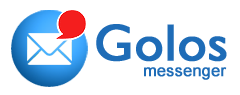
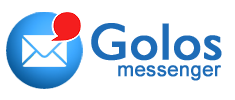
minor fix

Changed region(s): [[0.0, 0.1053, 0.9532, 0.9263]]

diff --git a/app/components/modules/TopRightMenu.jsx b/app/components/modules/TopRightMenu.jsx
@@ -149,8 +149,8 @@ function TopRightMenu({account, savings_withdraws, price_per_golos, globalprops,
             {link: feedLink, icon: 'new/home', value: tt('g.feed'), addon: <NotifiCounter fields="feed" />},
             {link: accountLink, icon: 'new/blogging', value: tt('g.blog')},
             {link: repliesLink, icon: 'new/answer', value: tt('g.replies'), addon: <NotifiCounter fields="comment_reply" />},
-            {link: donatesLink, icon: 'editor/coin', value: tt('g.rewards'), addon: <NotifiCounter fields="donate" />},
             {link: messagesLink, icon: 'new/envelope', value: tt('g.messages'), target: '_blank', addon: <NotifiCounter fields="message" />},
+            {link: donatesLink, icon: 'editor/coin', value: tt('g.rewards'), addon: <NotifiCounter fields="donate" />},
             {link: walletLink, icon: 'new/wallet', value: tt('g.wallet'), addon: <NotifiCounter fields="send,receive" />},
             {link: '#', onClick: toggleNightmode, icon: 'editor/eye', value: tt('g.night_mode')},
             {link: settingsLink, icon: 'new/setting', value: tt('g.settings')},

diff --git a/app/components/pages/UserProfile.jsx b/app/components/pages/UserProfile.jsx
@@ -410,10 +410,10 @@ export default class UserProfile extends React.Component {
                     <Link className="UserProfile__menu-item" to={`/@${accountname}/recent-replies`} activeClassName="active">
                         {tt('g.replies')} {isMyAccount && <NotifiCounter fields="comment_reply" />}
                     </Link>
-                    <Link target="_blank" className="UserProfile__menu-item" to={`/search/@${accountname}`}>{tt('g.search')}
-                    </Link>
                     <Link target="_blank" className="UserProfile__menu-item" to={`/msgs`}>
                         {tt('g.messages')} {isMyAccount && <NotifiCounter fields="message" />}
+                    </Link>
+                    <Link className="UserProfile__menu-item" to={`/search/@${accountname}`}>{tt('g.search')}
                     </Link>
                     <LinkWithDropdown
                         closeOnClickOutside

diff --git a/app/assets/stylesheets/_themes.scss b/app/assets/stylesheets/_themes.scss
@@ -70,7 +70,7 @@ $themes: (
     textColorAccentHover: $color-teal,
     textColorError: $color-text-red,
     contentBorderAccent: $color-teal,
-    buttonBackground: $color-blue-black,
+    buttonBackground: $color-white,
     buttonBackgroundHover: $color-teal,
     buttonText: $color-text-white,
     buttonTextShadow: 0 1px 0 rgba(0,0,0,0.20),
@@ -111,7 +111,7 @@ $themes: (
     textColorAccentHover: $color-teal-light,
     textColorError: $color-text-red,
     contentBorderAccent: $color-teal,
-    buttonBackground: $color-white,
+    buttonBackground: $color-blue-black,
     buttonBackgroundHover: $color-teal,
     buttonText: $color-blue-dark,
     buttonTextShadow: 0 1px 0 rgba(0,0,0,0),
@@ -362,7 +362,7 @@ $themes: (
 }
 
 .button.disabled, .button[disabled] {
-  opacity: 0.25;
+  opacity: 0.5;
   cursor: not-allowed;
   box-shadow: 0px 0px 0px 0 rgba(0,0,0,0);
     @include themify($themes) {

diff --git a/app/components/pages/PostsIndex.jsx b/app/components/pages/PostsIndex.jsx
@@ -241,7 +241,7 @@ class PostsIndex extends React.Component {
                             loadMore={this.loadMore}
                             showSpam={showSpam}
                         /> }
-                <span className="strike"><a target="_blank" href="/search">{tt('g.more_post')}</a></span>
+                <span className="strike"><a href="/search">{tt('g.more_post')}</a></span>
                 </div>
                 <div className="PostsIndex__topics column shrink show-for-large">
 

diff --git a/app/components/elements/messages/Compose/index.js b/app/components/elements/messages/Compose/index.js
@@ -165,7 +165,7 @@ export default class Compose extends React.Component {
 
                 {!selectedMessagesCount ? (<textarea
                     className='msgs-compose-input'
-                    placeholder={tt('messages.type_a_message_NAME', {NAME: account.name})}
+                    placeholder={tt('messages.type_a_message')}
                     onKeyDown={this.onSendMessage}
                     onPaste={this.onPaste}
                     />) : null}

diff --git a/app/components/pages/Messages.scss b/app/components/pages/Messages.scss
@@ -1,5 +1,5 @@
 .msgs-logo {
-    height: 55px;
+    height: 60px;
 }
 
 .msgs-toolbar {
